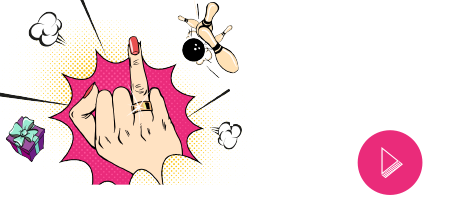
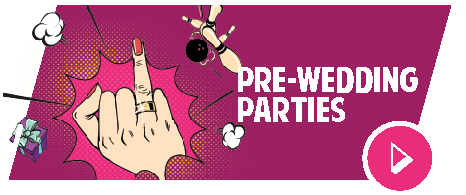
changes made to page home

diff --git a/sass/main.scss b/sass/main.scss
@@ -16,6 +16,7 @@ $brand-green: #32b544!default;
 $brand-pink: #ea2b7c!default;
 $brand-red: #ea1c22!default;
 $brand-darkblue: #2a3890!default;
+$brand-yellow:#ffec39!default;
 @import "../bower_components/bootstrap-sass/assets/stylesheets/bootstrap";
 @font-face {
     font-family: "American Purpose";
@@ -52,6 +53,11 @@ $brand-darkblue: #2a3890!default;
 .brand-purple {
     background-color: $brand-purple;
 }
+.brand-yellow{
+  background-color: $brand-yellow;
+}
+
+
 // @mixin skew ($x, $y) {
 //    @include transform(skew(#{$x}deg, #{$y}deg));
 // }
@@ -131,6 +137,54 @@ a {
             width: 60%;
         }
     }
+}
+.slant1,.slant2{
+  .comic-panes{
+    .text1,.text2{
+    .slidings{
+      .flexslider{
+        background-color: $brand-blue;
+      }
+      .flex-control-nav{
+        display: none;
+      }
+      .flex-prev{
+        display: none;
+      }
+      // .flex-next{
+      // background-image: url("../img/home/arrow.png");
+      // }
+      .slides{
+        li{
+          @include transform(skew(10deg));
+          margin: 0 38px;
+        }
+      }
+      .flex-direction-nav a{
+        width: 80px;
+        height: 75px;
+      }
+
+      .flex-direction-nav a:before{
+        width: 80px;
+        height: 75px;
+        content: url("../img/home/arrow.png");
+      }
+    }
+  }
+}
+}
+
+.slant1{
+  .comic-panes{
+    .text2{
+    .slidings{
+  .flexslider{
+    background-color: $brand-darkblue;
+  }
+}
+}
+}
 }
 
 .smaash-drops {
@@ -404,6 +458,17 @@ a {
         background-color: $brand-darkblue;
     };
 }
+.slant3{
+  // .text1,.text2{
+  //   width: 566px;
+  // }
+  .comic-panes{
+    left:-127px;
+  }
+}
+
+
+
 .buttons{
   position: absolute;
     bottom: -3%;
@@ -460,46 +525,47 @@ height: 500px;
         position: relative;
         margin: 0 auto;
         overflow: hidden;
+        transform: skew(-10deg);
     }
     .text {
-      width: 510px;
-      max-height: 507px;
-      height: 208px;
-      padding-right: 28px;
-      position: absolute;
-      left: 29px;
-      box-shadow: 3px 5px 10px rgba(0, 0, 0, 0.1);
-      z-index: 1;
-      transform: skew(-15deg);
+        width: 530px;
+        max-height: 507px;
+        height: 326px;
+        padding-right: 28px;
+        position: absolute;
+        left: -2px;
+        box-shadow: 3px 5px 10px rgba(0, 0, 0, 0.1);
+        z-index: 1;
         figure {
-            transform: skew(15deg);
+            transform: skew(10deg);
         }
     }
-    // .text:before {
-    //   content: "";
-    //   width: 60px;
-    //   height: 200px;
-    //   border-left: 1px solid rgba(0,0,0,0.05);
-    //   dislay: block;
-    //   position: absolute;
-    //   left: -27px;
-    //   transform: skew(15deg);
-    //   -webkit-backface-visibility: hidden;
-    // }
+    .text:before {
+        content: "";
+        width: 60px;
+        height: 200px;
+        border-left: 1px solid rgba(0,0,0,0.05);
+        dislay: block;
+        position: absolute;
+        left: -27px;
+        transform: skew(15deg);
+        background: $brand-yellow;
+        -webkit-backface-visibility: hidden;
+    }
     .text p {
         width: 260px;
         margin: 15px 0 0 -30px;
-        transform: skew(15deg);
+        transform: skew(10deg);
         color: #fff;
         font-size: 30px;
         line-height: 1.2em;
     }
     .comic-panes {
-        width: 649px;
+        width: 592px;
         height: 417px;
         margin: 0 auto;
         position: relative;
-        left: -40px;
+        left: -3px;
         overflow: hidden;
 
     }
@@ -507,15 +573,15 @@ height: 500px;
         width: 50%;
     }
     .text1 {
-     width: 510px;
+     width: 543px;
      max-height: 507px;
-     height: 208px;
+     height: 150px;
      padding-right: 28px;
      position: absolute;
      left: 29px;
      box-shadow: 3px 5px 10px rgba(0, 0, 0, 0.1);
      z-index: 1;
-     transform: skew(-15deg);
+     transform: skew(-10deg);
         figure {
             // transform: skew(15deg);
             margin: -7% 0 0 12%;
@@ -524,7 +590,7 @@ height: 500px;
     .text1 p {
         width: 260px;
         margin: 15px 0 0 16px;
-        transform: skew(15deg);
+        transform: skew(10deg);
         color: #fff;
         font-size: 30px;
         line-height: 1.2em;
@@ -532,50 +598,50 @@ height: 500px;
     .text1:before {
         content: "";
         width: 60px;
-        height: 208px;
+        height: 150px;
         border-left: 1px solid transparent!important;
         dislay: block;
         position: absolute;
         left: -27px;
-        transform: skew(15deg);
+        transform: skew(10deg);
         background: $brand-purple;
         -webkit-backface-visibility: hidden;
     }
     .text2 {
-        width: 570px;
-        max-height: 507px;
-        height: 208px;
-        padding-right: 28px;
-        position: absolute;
-        top: 55%;
-        left: 29px;
-        // transform: skew(-15deg);
-        box-shadow: 3px 5px 10px rgba(0, 0, 0, 0.1);
-        z-index: 1;
+      width: 510px;
+      max-height: 507px;
+      height: 150px;
+      padding-right: 28px;
+      position: absolute;
+      left: 29px;
+      top:42%;
+      box-shadow: 3px 5px 10px rgba(0, 0, 0, 0.1);
+      z-index: 1;
+      transform: skew(-10deg);
         figure {
-            transform: skew(15deg);
+            transform: skew(10deg);
             margin: 0 0 0 12%;
         }
     }
     .text2 p {
-        width: 260px;
-        margin: 15px 0 0 16px;
-        transform: skew(15deg);
-        color: #fff;
-        font-size: 30px;
-        line-height: 1.2em;
+      width: 260px;
+      margin: 15px 0 0 16px;
+      transform: skew(10deg);
+      color: #fff;
+      font-size: 30px;
+      line-height: 1.2em;
     }
     .text2:before {
-        content: "";
-        height: 208px;
-        width: 60px;
-        border-left: 1px solid transparent!important;
-        dislay: block;
-        position: absolute;
-        left: -27px;
-        transform: skew(15deg);
-        background: $brand-blue;
-        -webkit-backface-visibility: hidden;
+      content: "";
+      width: 60px;
+      height: 150px;
+      border-left: 1px solid transparent!important;
+      dislay: block;
+      position: absolute;
+      left: -27px;
+      transform: skew(10deg);
+      background: $brand-blue;
+      -webkit-backface-visibility: hidden;
     }
 }
 .width {

diff --git a/views/content/home.html b/views/content/home.html
@@ -69,7 +69,7 @@
     </div>
 </div>
 <div class="container">
-  <!-- <div class="slant1">
+  <div class="slant1">
     <div class="flex-row rows">
         <div class="flex-col cols1">
             <div class="comic-pane">
@@ -87,33 +87,37 @@
             <div class="comic-panes">
                 <div class="text1 brand-blue">
                     <p class="text-uppercase title">whats new</p>
-                    <figure class="games-images">
-                        <img src="img/home/bowling.png" class="img-responsive images" alt="Twilight Bowling" />
-                        <a href=""><img src="img/home/arrow.png" class="img-responsive arrows" alt="arrow"></a>
-                    </figure>
+                    <div class="slidings">
+                        <flex-slider class="carousel" flex-slide="s in mySlides1 track by $index" item-width="250" animation="slide" animationLoop="true" >
+                            <li>
+                                <img ng-src="{{s}}">
+                            </li>
+                        </flex-slider>
+                    </div>
                 </div>
                 <div class="text2 brand-darkblue">
                     <p class="text-uppercase title">host party</p>
-                    <figure class="games-images">
-                        <img src="img/home/prewedding.png" class="img-responsive images" alt="Prewedding Parties" />
-                        <a href=""><img src="img/home/arrow.png" class="img-responsive arrows" alt="arrow"></a>
-                    </figure>
+                    <div class="slidings">
+                        <flex-slider class="carousel" flex-slide="s in mySlides2 track by $index" item-width="250" animation="slide" animationLoop="true" >
+                            <li>
+                                <img ng-src="{{s}}">
+                            </li>
+                        </flex-slider>
+                    </div>
                 </div>
             </div>
         </div>
     </div>
-    </div> -->
+    </div>
     <div class="slant2">
      <div class="flex-row rows">
     <div class="flex-col cols1">
       <div class="comic-panes">
           <div class="text1 brand-purple">
-              <p class="text-uppercase title">whats new</p>
               <figure>
               </figure>
           </div>
           <div class="text2 brand-blue">
-              <p class="text-uppercase title">host party</p>
               <figure>
               </figure>
           </div>
@@ -121,17 +125,16 @@
     </div>
     <div class="flex-col cols1">
       <div class="comic-pane">
-          <div class="text">
-              <p class="text-uppercase title">explore smaaash</p>
-              <figure class="sachinss">
-                  <img src="img/home/points.png" class="img-responsive" alt="Loyalty points" />
+          <div class="text brand-yellow">
+              <figure class="games-images">
+                  <img src="img/home/aunty.png" class="img-responsive sachinss" alt="loyalty points" />
               </figure>
           </div>
       </div>
     </div>
   </div>
 </div>
-   <!-- <div class="slant3">
+   <div class="slant3">
   <div class="flex-row rows">
     <div class="flex-col cols1">
       <div class="comic-pane">
@@ -160,5 +163,5 @@
       </div>
       </div>
     </div>
-</div> -->
+</div>
 </div>

diff --git a/js/controllers.js b/js/controllers.js
@@ -14,6 +14,18 @@ angular.module('phonecatControllers', ['templateservicemod', 'navigationservice'
     'img/home/slider1.png',
     // 'http://flexslider.woothemes.com/images/kitchen_adventurer_caramel.jpg'
   ];
+  $scope.mySlides1 = [
+    'img/home/blowing.png',
+    'img/home/cockpit.png',
+    'img/home/blowing.png'
+    // 'http://flexslider.woothemes.com/images/kitchen_adventurer_caramel.jpg'
+  ];
+  $scope.mySlides2 = [
+    'img/home/prewedding.png',
+    'img/home/coroporatespary.png',
+      'img/home/prewedding.png'
+    // 'http://flexslider.woothemes.com/images/kitchen_adventurer_caramel.jpg'
+  ];
 })
 
 .controller('headerctrl', function($scope, TemplateService) {
